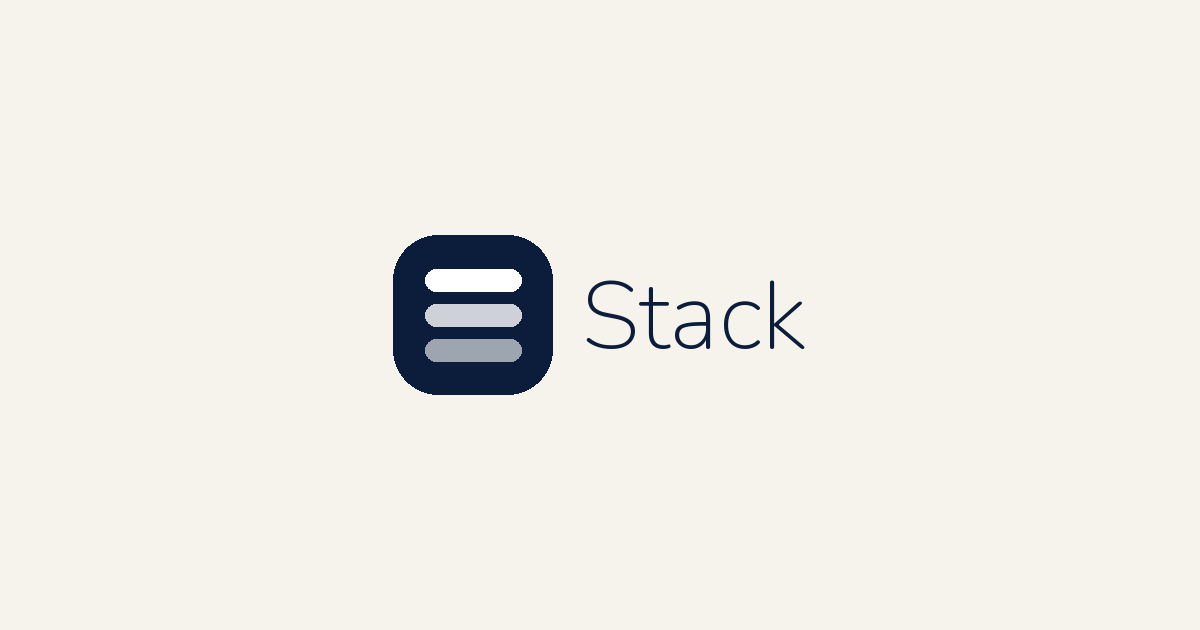
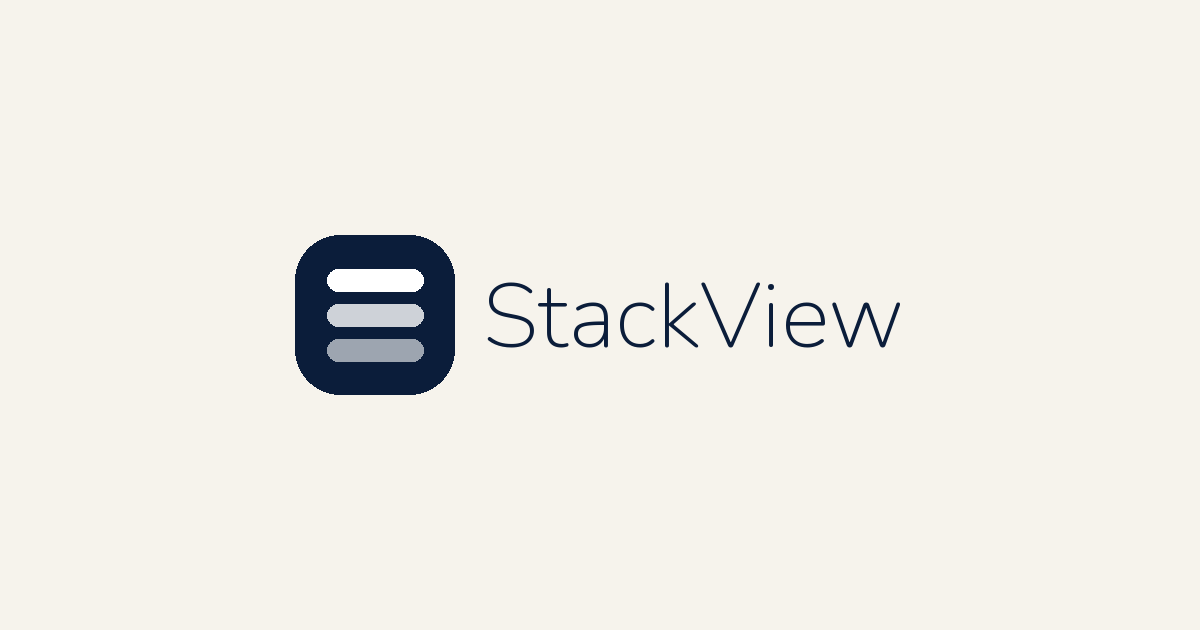
Rename the landing page product to StackView.
Update PRODUCT_NAME, meta tags, and the OG image wordmark. Favicons stay
mark-only. Tighten the nav brand slightly so StackView fits on small phones.

Changed region(s): [[0.2467, 0.3619, 0.7708, 0.6333]]

diff --git a/web/index.html b/web/index.html
@@ -6,32 +6,33 @@
     <meta name="color-scheme" content="light" />
     <meta
       name="description"
-      content="Stack audits supplement overlaps and spend, then compares sleep, HRV, and resting heart rate before and after you start a bottle. Join the waitlist."
+      content="StackView audits supplement overlaps and spend, then compares sleep, HRV, and resting heart rate before and after you start a bottle. Join the waitlist."
     />
     <meta name="theme-color" content="#F6F3EC" />
-    <meta property="og:title" content="Stack · Know what you take" />
+    <meta property="og:title" content="StackView · Know what you take" />
     <meta property="og:description" content="See what overlaps, what it costs, and how your sleep and HRV look before and after you start a bottle." />
     <meta property="og:image" content="./assets/og.png" />
     <meta property="og:type" content="website" />
     <meta name="twitter:card" content="summary_large_image" />
+    <meta name="twitter:title" content="StackView · Know what you take" />
     <meta name="twitter:image" content="./assets/og.png" />
     <link rel="icon" type="image/png" sizes="32x32" href="./assets/favicon-32.png" />
     <link rel="icon" type="image/png" sizes="16x16" href="./assets/favicon-16.png" />
     <link rel="apple-touch-icon" href="./assets/apple-touch-icon.png" />
-    <title>Stack · Know what you take</title>
+    <title>StackView · Know what you take</title>
     <link rel="stylesheet" href="./styles.css" />
   </head>
   <body>
     <header class="site-header" data-header>
       <div class="wrap nav">
-        <a class="brand" href="#top" aria-label="Stack home">
+        <a class="brand" href="#top" aria-label="StackView home">
           <svg class="brand-mark" xmlns="http://www.w3.org/2000/svg" viewBox="0 0 28 28" width="28" height="28" aria-hidden="true" focusable="false">
             <rect width="28" height="28" rx="8" fill="#0B1D3A"/>
             <rect x="6" y="6" width="16" height="4" rx="2" fill="#FFFFFF"/>
             <rect x="6" y="12" width="16" height="4" rx="2" fill="#FFFFFF" fill-opacity="0.8"/>
             <rect x="6" y="18" width="16" height="4" rx="2" fill="#FFFFFF" fill-opacity="0.6"/>
           </svg>
-          <span data-product-name>Stack</span>
+          <span data-product-name>StackView</span>
         </a>
         <a class="nav-cta" href="#waitlist">Join waitlist</a>
       </div>
@@ -55,7 +56,7 @@
 
           <div class="phone-stage reveal" aria-hidden="true">
             <div class="phone phone-shot">
-              <img class="phone-shot-img" src="./assets/stack-screen.png" width="393" height="852" alt="Example My Stack screen in Stack" />
+              <img class="phone-shot-img" src="./assets/stack-screen.png" width="393" height="852" alt="Example My Stack screen in StackView" />
             </div>
           </div>
         </div>
@@ -109,7 +110,7 @@
 
           <div class="phone-stage reveal" aria-hidden="true">
             <div class="phone phone-shot">
-              <img class="phone-shot-img" src="./assets/impact-screen.png" width="393" height="852" alt="Example Impact screen in Stack" />
+              <img class="phone-shot-img" src="./assets/impact-screen.png" width="393" height="852" alt="Example Impact screen in StackView" />
             </div>
           </div>
         </div>
@@ -156,7 +157,7 @@
               <h2>Join the waitlist</h2>
               <p>
                 Leave your email and we will invite you when
-                <span data-product-name>Stack</span> opens in the US.
+                <span data-product-name>StackView</span> opens in the US.
               </p>
             </div>
             <form class="form" data-waitlist-form novalidate>
@@ -195,7 +196,7 @@
               <summary>Is this medical advice?</summary>
               <p>
                 No.
-                <span data-product-name>Stack</span> is an educational log. It is not a medical device and it does not calculate a dose for you.
+                <span data-product-name>StackView</span> is an educational log. It is not a medical device and it does not calculate a dose for you.
               </p>
             </details>
             <details class="reveal">
@@ -237,14 +238,14 @@
             <rect x="6" y="18" width="16" height="4" rx="2" fill="#FFFFFF" fill-opacity="0.6"/>
           </svg>
           <div>
-            <strong data-product-name>Stack</strong>
+            <strong data-product-name>StackView</strong>
             <p>Know what you take, what it costs, and how the weeks before and after looked on your wearable.</p>
           </div>
         </div>
       </div>
       <div class="wrap">
         <p class="disclaimer">
-          <span data-product-name>Stack</span> is not medical advice, not a medical device, and does not tell you to start or stop any supplement.
+          <span data-product-name>StackView</span> is not medical advice, not a medical device, and does not tell you to start or stop any supplement.
           Impact describes association in your logged data only. Talk to a clinician about your own health decisions.
         </p>
       </div>

diff --git a/web/styles.css b/web/styles.css
@@ -1,4 +1,4 @@
-/* Stack landing. Light mode only. Two weights: 400 and 600. */
+/* StackView landing. Light mode only. Two weights: 400 and 600. */
 
 :root {
   color-scheme: light;
@@ -123,10 +123,25 @@ input {
 .brand {
   display: inline-flex;
   align-items: center;
-  gap: 10px;
+  gap: 8px;
   font-weight: 600;
   letter-spacing: -0.02em;
   text-decoration: none;
+  white-space: nowrap;
+}
+
+.brand [data-product-name] {
+  font-size: 1.05rem;
+}
+
+@media (max-width: 420px) {
+  .brand {
+    gap: 6px;
+  }
+
+  .brand [data-product-name] {
+    font-size: 0.98rem;
+  }
 }
 
 .brand-mark {

diff --git a/web/config.js b/web/config.js
@@ -1,8 +1,7 @@
 /**
  * Product name lives here. Rename in one place when the placeholder changes.
- * StackSure is a candidate name only; do not commit to it in copy yet.
  */
-export const PRODUCT_NAME = 'Stack';
+export const PRODUCT_NAME = 'StackView';
 
 /** Deployed stack-api origin. Override for local wrangler dev if needed. */
 export const WAITLIST_API_BASE = 'https://stack-api.jamesarobinson6.workers.dev';

diff --git a/web/README.md b/web/README.md
@@ -1,6 +1,6 @@
-# Stack landing (Cloudflare Pages)
+# StackView landing (Cloudflare Pages)
 
-Static marketing page for the waitlist. Light mode only. Product name comes from `config.js` (`PRODUCT_NAME`).
+Static marketing page for the StackView waitlist. Light mode only. Product name comes from `config.js` (`PRODUCT_NAME`).
 
 ## Local preview
 
